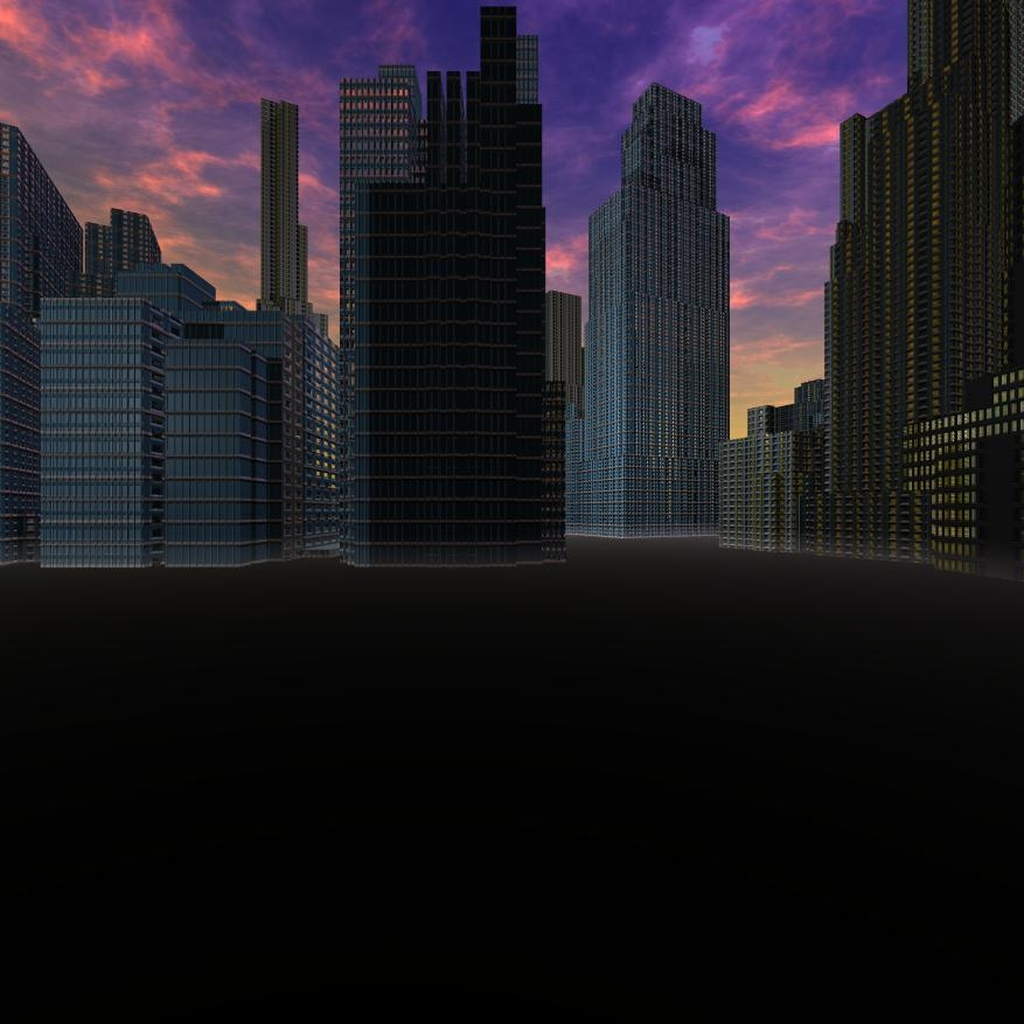
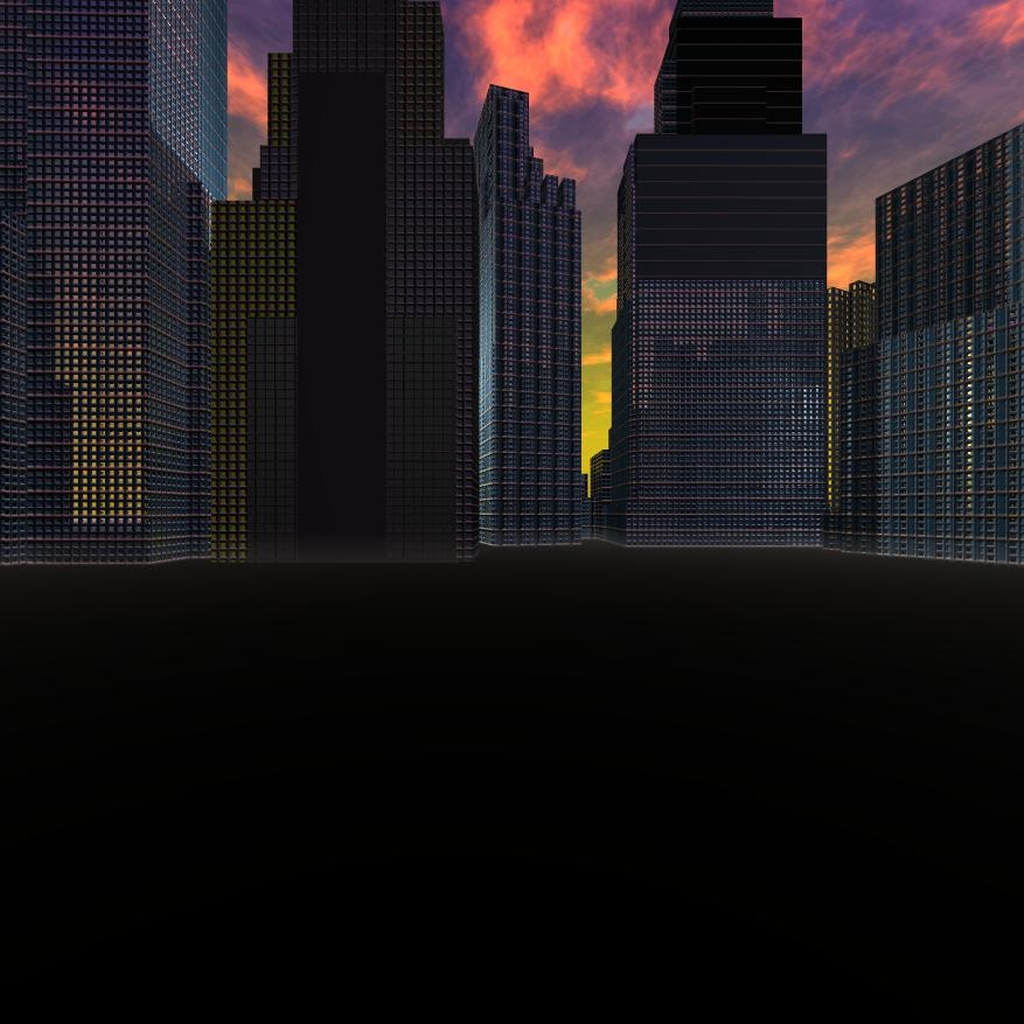
New texture for CubeMap, CubeMap now has the correct orientations

diff --git a/project/MyCubeMap.js b/project/MyCubeMap.js
@@ -31,8 +31,9 @@ export class MyCubeMap {
         initTextures(){
                 this.mapTextures = [
                         [new CGFtexture(this.scene, 'images/test_cubemap/px.png'), new CGFtexture(this.scene, 'images/test_cubemap/nx.png'), new CGFtexture(this.scene, 'images/test_cubemap/py.png'), new CGFtexture(this.scene, 'images/test_cubemap/ny.png'), new CGFtexture(this.scene, 'images/test_cubemap/pz.png'), new CGFtexture(this.scene, 'images/test_cubemap/nz.png')],
-                        [new CGFtexture(this.scene, 'images/demo_cubemap/back.png'), new CGFtexture(this.scene, 'images/demo_cubemap/front.png'), new CGFtexture(this.scene, 'images/demo_cubemap/right.png'), new CGFtexture(this.scene, 'images/demo_cubemap/left.png'), new CGFtexture(this.scene, 'images/demo_cubemap/top.png'), new CGFtexture(this.scene, 'images/demo_cubemap/bottom.png')],
-                        [new CGFtexture(this.scene, 'images/city_skybox/px.jpg'), new CGFtexture(this.scene, 'images/city_skybox/nx.jpg'), new CGFtexture(this.scene, 'images/city_skybox/py.jpg'), new CGFtexture(this.scene, 'images/city_skybox/ny.jpg'), new CGFtexture(this.scene, 'images/city_skybox/pz.jpg'), new CGFtexture(this.scene, 'images/city_skybox/nz.jpg')]
+                        [new CGFtexture(this.scene, 'images/demo_cubemap/right.png'), new CGFtexture(this.scene, 'images/demo_cubemap/left.png'), new CGFtexture(this.scene, 'images/demo_cubemap/top.png'), new CGFtexture(this.scene, 'images/demo_cubemap/bottom.png'), new CGFtexture(this.scene, 'images/demo_cubemap/front.png'), new CGFtexture(this.scene, 'images/demo_cubemap/back.png')],
+                        [new CGFtexture(this.scene, 'images/city_skybox/px.jpg'), new CGFtexture(this.scene, 'images/city_skybox/nx.jpg'), new CGFtexture(this.scene, 'images/city_skybox/py.jpg'), new CGFtexture(this.scene, 'images/city_skybox/ny.jpg'), new CGFtexture(this.scene, 'images/city_skybox/pz.jpg'), new CGFtexture(this.scene, 'images/city_skybox/nz.jpg')],
+                        [new CGFtexture(this.scene, 'images/beach/px.png'), new CGFtexture(this.scene, 'images/beach/nx.png'), new CGFtexture(this.scene, 'images/beach/py.png'), new CGFtexture(this.scene, 'images/beach/ny.png'), new CGFtexture(this.scene, 'images/beach/pz.png'), new CGFtexture(this.scene, 'images/beach/nz.png')]
                 ];
         }
 	
@@ -70,7 +71,6 @@ export class MyCubeMap {
                 
                 this.scene.pushMatrix();
                 this.scene.translate(0.5, 0, 0);
-                this.scene.rotate(Math.PI/2, 1, 0, 0)
                 this.scene.rotate(-Math.PI/2, 0, 1, 0);
                 this.material.setTexture(this.mapTextures[this.selectedTexture][0]);
                 this.material.apply();
@@ -80,7 +80,6 @@ export class MyCubeMap {
                 
                 this.scene.pushMatrix();
                 this.scene.translate(-0.5, 0, 0);
-                this.scene.rotate(Math.PI/2, 1, 0, 0)
                 this.scene.rotate(Math.PI/2, 0, 1, 0);
                 this.material.setTexture(this.mapTextures[this.selectedTexture][1]);
                 this.material.apply();
@@ -98,7 +97,6 @@ export class MyCubeMap {
                 this.scene.popMatrix();
 
                 this.scene.pushMatrix();
-                this.scene.rotate(Math.PI, 0, 1, 0);
                 this.scene.translate(0, -0.5, 0);
                 this.scene.rotate(-Math.PI/2, 1, 0, 0);
                 this.material.setTexture(this.mapTextures[this.selectedTexture][3]);
@@ -109,20 +107,19 @@ export class MyCubeMap {
 
                 this.scene.pushMatrix();
                 this.scene.translate(0, 0, 0.5);
-                this.scene.rotate(Math.PI/2, 0, 0, 1)
+                this.scene.rotate(Math.PI, 0, 0, 1)
                 this.scene.rotate(Math.PI, 1, 0, 0);
-                this.material.setTexture(this.mapTextures[this.selectedTexture][4]);
+                this.material.setTexture(this.mapTextures[this.selectedTexture][5]);
                 this.material.apply();
                 this.betterRes();
                 this.quad.display();
                 this.scene.popMatrix();
 
                 this.scene.pushMatrix();
-                this.scene.rotate(Math.PI/2, 0, 0, 1)
                 this.scene.rotate(Math.PI, 1, 0, 0);
                 this.scene.translate(0, 0, 0.5);
                 this.scene.rotate(Math.PI, 1, 0, 0);
-                this.material.setTexture(this.mapTextures[this.selectedTexture][5]);
+                this.material.setTexture(this.mapTextures[this.selectedTexture][4]);
                 this.material.apply();
                 this.betterRes();
                 this.quad.display();

diff --git a/project/MyScene.js b/project/MyScene.js
@@ -29,21 +29,19 @@ export class MyScene extends CGFscene {
         
         this.enableTextures(true);
 
-        
-
         //Initialize scene objects
         this.axis = new CGFaxis(this);
         this.incompleteSphere = new MySphere(this, 16, 8);
         this.pyramid = new MyPyramid(this, 6, 1);
-        this.cubeMap = new MyCubeMap(this, this.camera.position);
-        this.cylinder = new MyCylinder(this, 32, 2);
+        this.cubeMap = new MyCubeMap(this);
+        this.cylinder = new MyCylinder(this, 32, 6);
 
         this.objects = [this.incompleteSphere, this.pyramid, this.cubeMap, this.cylinder];
 
         // Labels and ID's for object selection on MyInterface
         this.objectIDs = { 'Sphere': 0 , 'Pyramid': 1, 'Cube Map':2, 'Cylinder': 3};
 
-        this.mapTexturesIDs = {'Axis': 0, 'Plains': 1, 'City': 2};
+        this.mapTexturesIDs = {'Axis': 0, 'Plains': 1, 'City': 2, 'Beach': 3};
 
         this.defaultAppearance = new CGFappearance(this);
 		this.defaultAppearance.setAmbient(0.2, 0.4, 0.8, 1.0);
@@ -61,7 +59,7 @@ export class MyScene extends CGFscene {
 
         //Objects connected to MyInterface
         this.displayAxis = true;
-        this.selectedObject = 1;
+        this.selectedObject = 2;
         this.displayNormals = false;
         this.wireframe = false;
         this.selectedMapTexture = 0;
